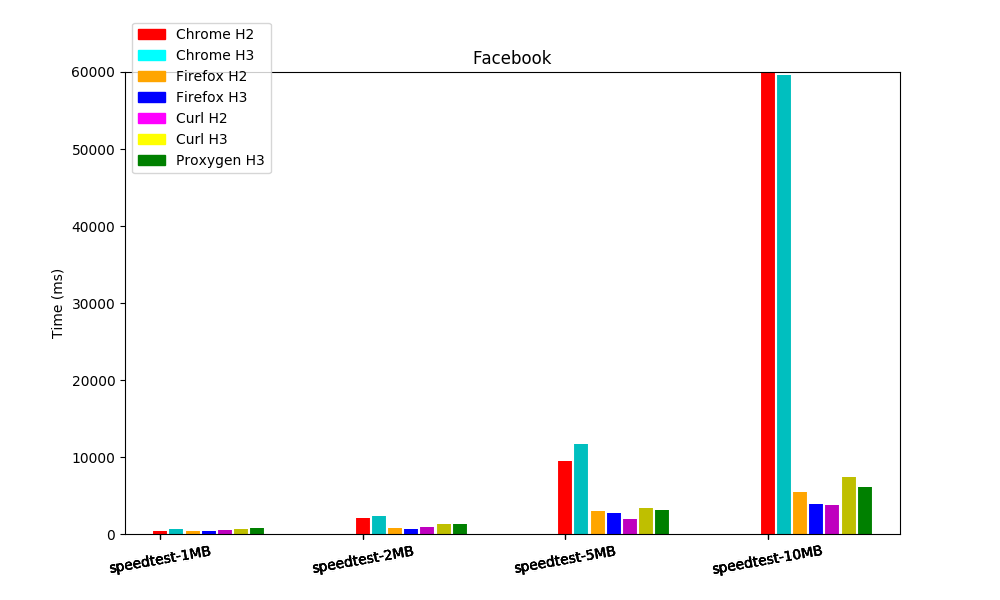
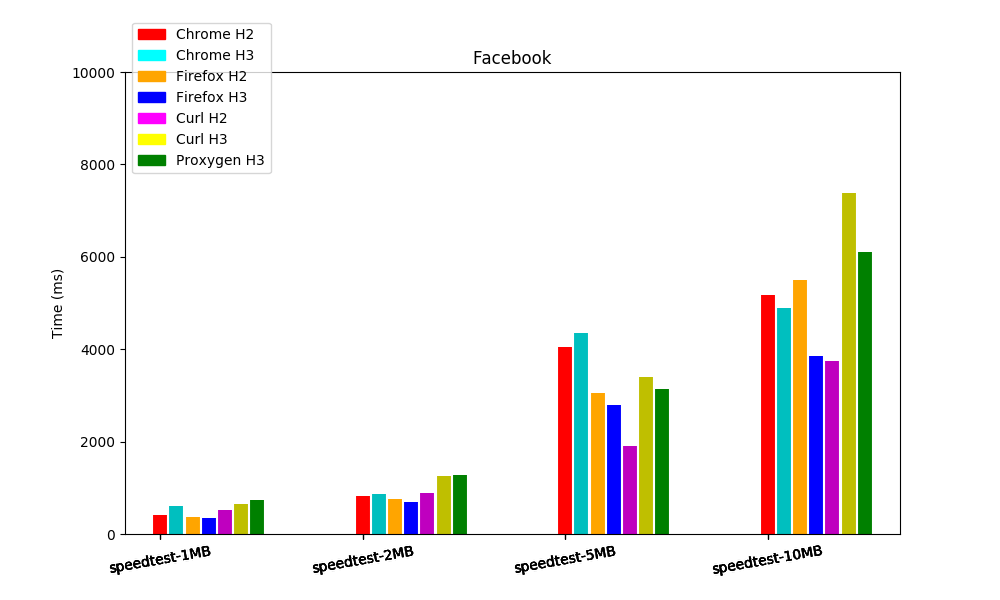
Updated FB graps

diff --git a/browser/index.js b/browser/index.js
@@ -102,14 +102,12 @@ const runChrome = async (browser, urlString, forceQuic) => {
         const har = await new PuppeteerHar(page);
 
         await har.start();
-        try {
-            await page.goto(urlString, {
-                timeout: 120000,
-            });
-        } catch (error) {
-            error.contains('net::ERR_ABORTED');
-            console.error(error);
-        }
+        const loadPage = page.goto(urlString, {
+            timeout: 120000,
+        });
+        const idlePage = await browser.newPage();
+        await idlePage.bringToFront();
+        await loadPage;
 
         const harResult = await har.stop();
         const { entries } = harResult.log;
@@ -128,6 +126,7 @@ const runChrome = async (browser, urlString, forceQuic) => {
         });
 
         await page.close();
+        await idlePage.close();
     }
 
     const urlObject = url.parse(urlString);
@@ -182,6 +181,7 @@ const f5Urls = [
         headless: false,
         executablePath: '/Applications/Google Chrome Canary.app/Contents/MacOS/Google Chrome Canary',
         args,
+        devtools: true,
     });
     console.log('Chrome: benchmarking H2');
     // for (const urlString of microsoftUrls) {
@@ -196,18 +196,18 @@ const f5Urls = [
 
     await chromeBrowser.close();
 
-    // // Test H3 - Chrome
-    // console.log('Chrome: benchmarking H3');
-    // args = chromeArgs(fbUrls[0], true);
-    // chromeBrowser = await puppeteer.launch({
-    //     headless: false,
-    //     executablePath: '/Applications/Google Chrome Canary.app/Contents/MacOS/Google Chrome Canary',
-    //     args,
-    // });
-    // for (const urlString of fbUrls) {
-    //     await runChrome(chromeBrowser, urlString, true);
-    // }
-    // await chromeBrowser.close();
+    // Test H3 - Chrome
+    console.log('Chrome: benchmarking H3');
+    args = chromeArgs(fbUrls[0], true);
+    chromeBrowser = await puppeteer.launch({
+        headless: false,
+        executablePath: '/Applications/Google Chrome Canary.app/Contents/MacOS/Google Chrome Canary',
+        args,
+    });
+    for (const urlString of fbUrls) {
+        await runChrome(chromeBrowser, urlString, true);
+    }
+    await chromeBrowser.close();
 
     // // H3 - Cloudflare
     // args = chromeArgs(cloudfareUrls[0], true);
@@ -233,15 +233,15 @@ const f5Urls = [
     // }
     // await chromeBrowser.close();
 
-    // H3 - F5
-    args = chromeArgs(f5Urls[0], true);
-    chromeBrowser = await puppeteer.launch({
-        headless: false,
-        executablePath: '/Applications/Google Chrome Canary.app/Contents/MacOS/Google Chrome Canary',
-        args,
-    });
-    for (const urlString of f5Urls) {
-        await queryFile(chromeBrowser, urlString, true);
-    }
-    await chromeBrowser.close();
+    // // H3 - F5
+    // args = chromeArgs(f5Urls[0], true);
+    // chromeBrowser = await puppeteer.launch({
+    //     headless: false,
+    //     executablePath: '/Applications/Google Chrome Canary.app/Contents/MacOS/Google Chrome Canary',
+    //     args,
+    // });
+    // for (const urlString of f5Urls) {
+    //     await queryFile(chromeBrowser, urlString, true);
+    // }
+    // await chromeBrowser.close();
 })();

diff --git a/har-analyzer/main.py b/har-analyzer/main.py
@@ -228,7 +228,7 @@ def main():
         mpatches.Patch(color='green', label='Proxygen H3'),
     ], loc='upper left', bbox_to_anchor=(0., 1.02, 1., .102))
     plt.ylabel('Time (ms)')
-    plt.ylim(1, 60000)
+    plt.ylim(1, 10000)
 
     xtick_pos, xtick_labels = populate_graph(
         'scontent.xx.fbcdn.net', fb_urls[5:])
